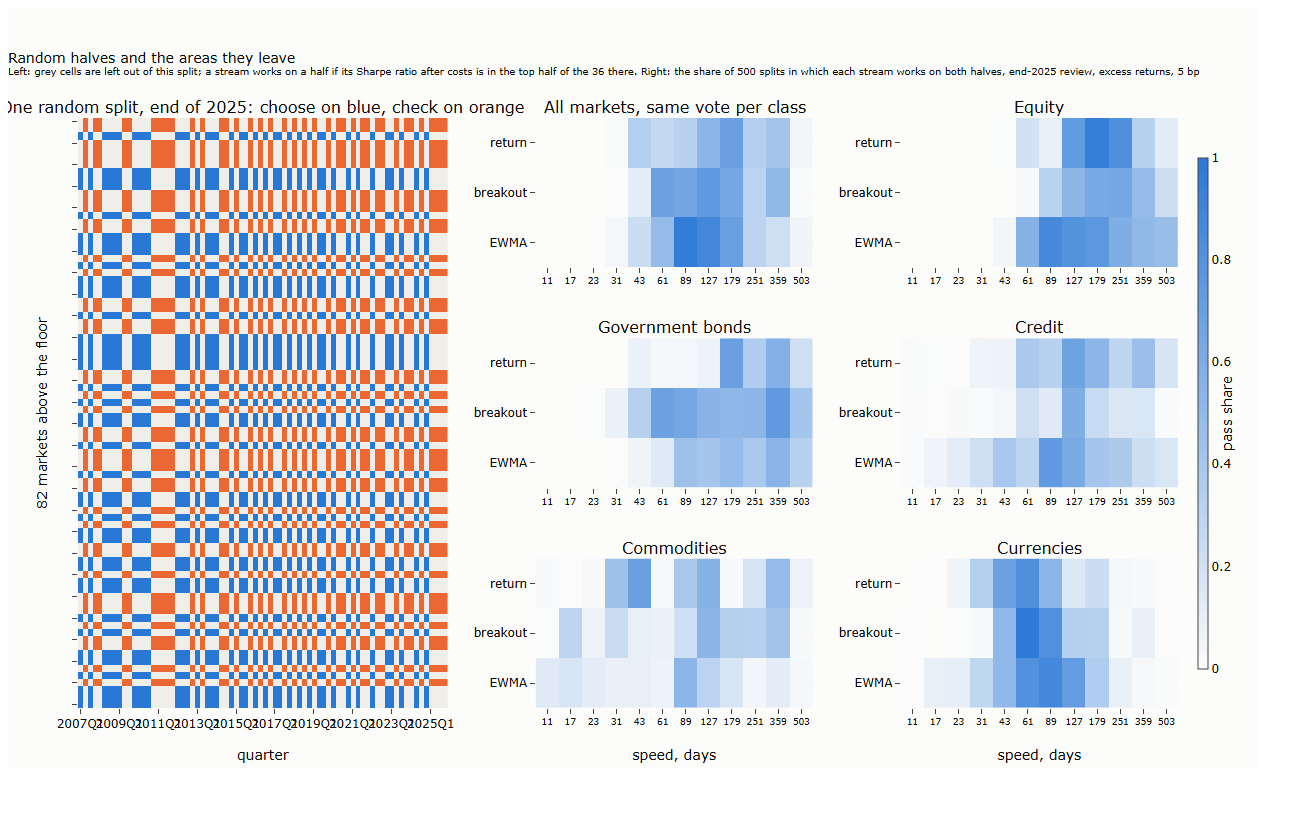
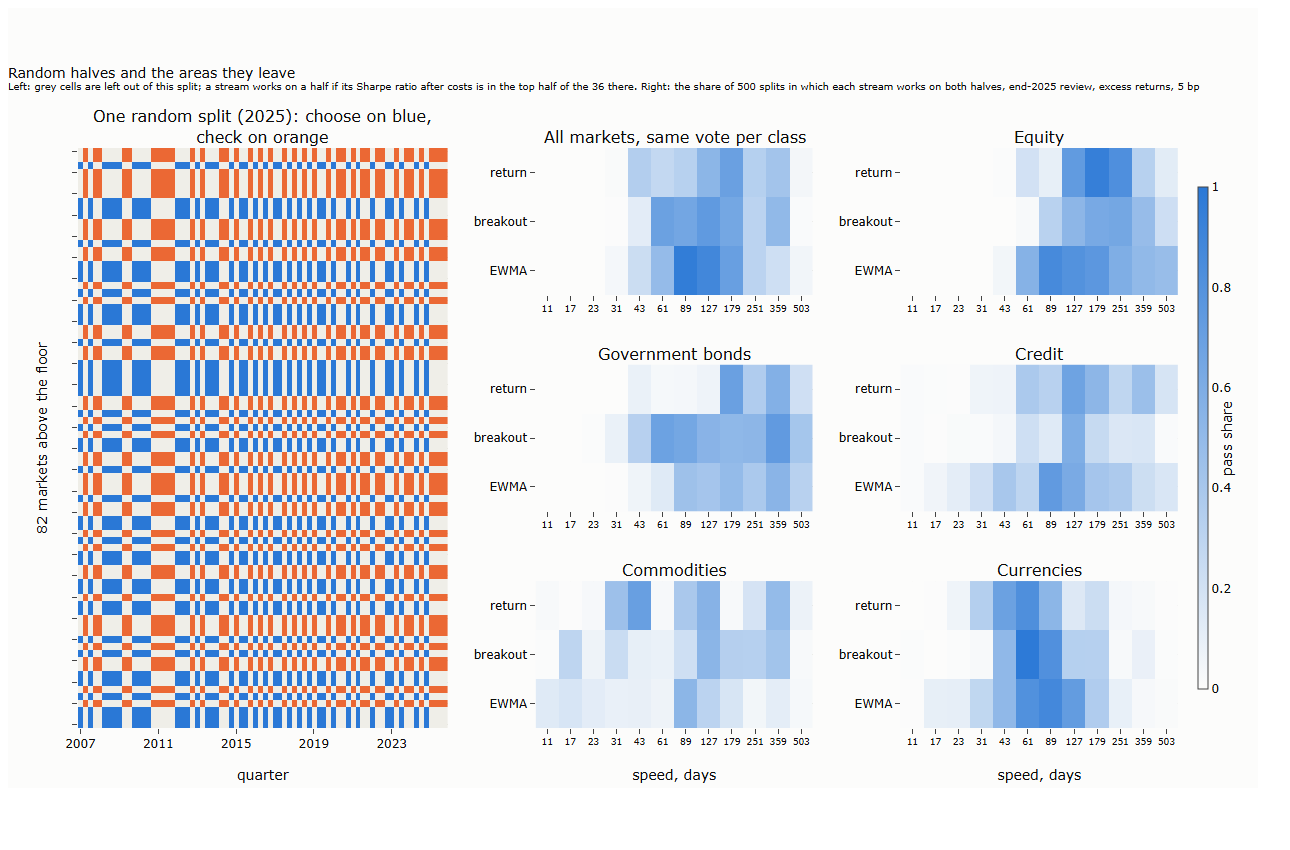
Lecture 12: random-halves chart - title fits its panel, x axis labelled by year without overlap (#347)

diff --git a/lectures/12-trend-speeds-by-asset-class/scripts/l26_charts.py b/lectures/12-trend-speeds-by-asset-class/scripts/l26_charts.py
@@ -22,11 +22,11 @@ if __name__ == "__main__":
     G = np.array([[1 if (i in A_m and j in A_q) else (2 if (i not in A_m and j not in A_q) else 0) for j in range(len(quarters))] for i in range(len(mk))], float)
     fig = make_subplots(rows=3, cols=3, column_widths=[0.4, 0.3, 0.3], horizontal_spacing=0.08, vertical_spacing=0.12,
                         specs=[[{"rowspan": 3}, {}, {}], [None, {}, {}], [None, {}, {}]],
-                        subplot_titles=["One random split, end of 2025: choose on blue, check on orange"] + [TITLE.get(g, g) for g in GROUPS])
+                        subplot_titles=["One random split (2025): choose on blue,<br>check on orange"] + [TITLE.get(g, g) for g in GROUPS])
     fig.add_heatmap(z=G, x=[str(q) for q in quarters], y=mk, colorscale=[[0, "#efeee8"], [0.5, SERIES[0]], [1, SERIES[1]]], zmin=0, zmax=2, showscale=False,
                     hovertemplate="%{y}, %{x}<extra></extra>", row=1, col=1)
     fig.update_yaxes(showticklabels=False, title_text=f"{len(mk)} markets above the floor", row=1, col=1)
-    fig.update_xaxes(tickvals=[str(q) for q in quarters[::8]], tickangle=0, title_text="quarter", row=1, col=1)
+    fig.update_xaxes(tickvals=[str(q) for q in quarters if q.quarter == 1 and q.year % 4 == 3], ticktext=[str(q.year) for q in quarters if q.quarter == 1 and q.year % 4 == 3], tickangle=0, title_text="quarter", row=1, col=1)
     W = S["2025"]["weights"]
     for i, g in enumerate(GROUPS):
         r, c = divmod(i, 2); w = pd.Series(W[g]); Z = np.array([[w[f"{rule}_{h}"] for h in L.SPEEDS] for rule in L.RULES])
@@ -36,7 +36,7 @@ if __name__ == "__main__":
         fig.update_xaxes(type="category", title_text="speed, days" if r == 2 else None, tickfont=dict(size=9), row=r + 1, col=c + 2)
     fig.update_layout(title="Random halves and the areas they leave<br><sup>Left: grey cells are left out of this split; a stream works on a half if its Sharpe "
                             "ratio after costs is in the top half of the 36 there. Right: the share of 500 splits in which each stream works on both halves, "
-                            "end-2025 review, excess returns, 5 bp</sup>", height=760, width=1250, margin=dict(t=110, l=70, r=60, b=60))
+                            "end-2025 review, excess returns, 5 bp</sup>", height=780, width=1250, margin=dict(t=140, l=70, r=60, b=60))
     save_figure(fig, L.PREFIX + "26_halves", L.FIG)
 
     years = sorted(S); fig = make_subplots(rows=2, cols=3, horizontal_spacing=0.06, vertical_spacing=0.18, subplot_titles=[TITLE.get(g, g) for g in GROUPS])
